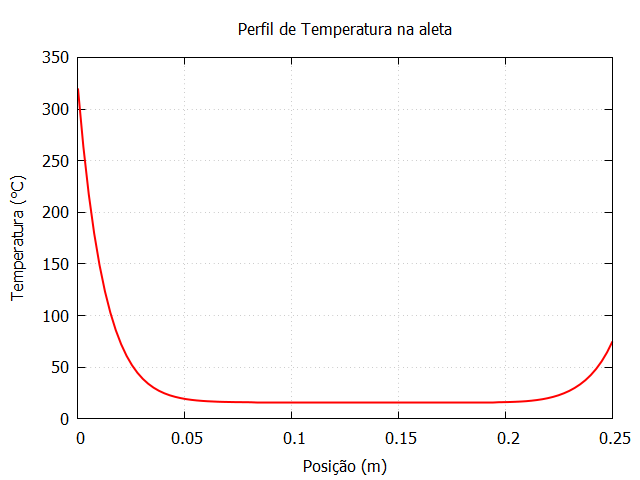
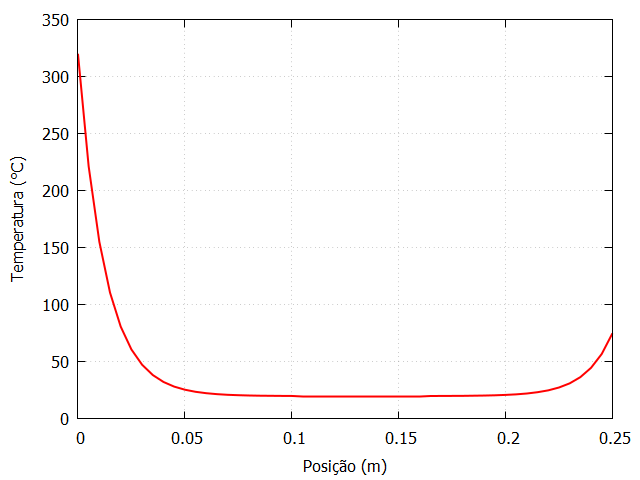
Atualização

diff --git a/Trabalho 1/src/main.cpp b/Trabalho 1/src/main.cpp
@@ -9,16 +9,16 @@
 // Protótipos de funções:
 void fill_coef(std::vector<std::vector<double>>& A, const double gamma);
 void save_data(const std::vector<double>& V, const std::vector<double>& W);
-
+double kelvin_to_celsius(const double TC);
 // Variáveis do problema:
 constexpr double kappa {59.0};                        // coeficiente de condutividade térmica
 constexpr double h {380};                             // coeficiente de troca de calor por convecção
 constexpr double D {4e-03};                           // diâmetro da seção transversal da aleta
-constexpr double T_amb{20.0};                         // temperatura do ambiente
-constexpr double T_0 {320.0};                         // temperatura da aleta em x=0
-constexpr double T_n {75.0};                          // temperatura da aleta em x=L
+constexpr double T_amb{20.0+273.15};                         // temperatura do ambiente
+constexpr double T_0 {320+273.15};                         // temperatura da aleta em x=0
+constexpr double T_n {75+273.15};                          // temperatura da aleta em x=L
 constexpr double L {0.25};                            // comprimento da aleta
-constexpr int N {100};                                // número de nós em x
+constexpr int N {51};                                // número de nós em x
 
 int main(int argc, char* argv[]){
 	constexpr auto dx = L/(N-1);                                             // comprimento do intervalo em x
@@ -27,6 +27,7 @@ int main(int argc, char* argv[]){
 	constexpr auto m2 = (h*P)/(kappa*A);
 	constexpr auto gamma = dx*dx*m2;
 	const auto m = std::sqrt(m2);
+	std::cout << "dx = " << dx << std::endl;
 
 	std::vector<std::vector<double>> G(N, std::vector<double>(N, 0.0));      // matriz NxN de coeficientes
 	std::vector<double> T(N, 0.0);                                           // vetor onde serão armazenadas as temperaturas
@@ -42,6 +43,8 @@ int main(int argc, char* argv[]){
 	B[N-1] = T_n;
 
 	GS_Solver<double>(G, B, T);
+	for (auto& x: T)
+		x = kelvin_to_celsius(x);
 	save_data(T, Pos);
 
 	std::cout << "Execution reached the end" << std::endl;
@@ -69,4 +72,8 @@ void save_data(const std::vector<double>& V, const std::vector<double>& W){
 	for (int i = 0; i < N; i++){
 		saver << std::setw(8) << W[i] << "\t" << V[i] << "\n";
 	}
+}
+
+double kelvin_to_celsius(const double TC){
+	return TC - 273.15;
 }

diff --git a/Trabalho 1/src/solver.py b/Trabalho 1/src/solver.py
@@ -7,9 +7,9 @@ h = 380                             # coeficiente de troca de calor por convecç
 D = 4e-03                           # diâmetro da seção transversal da aleta
 T_amb = 20.0                        # temperatura do ambiente
 T_0 = 320.0                         # temperatura da aleta em x=0
-T_n = 75.0                          # temperatura da aleta em x=L
+T_n = 25.0                          # temperatura da aleta em x=L
 L = 0.25                            # comprimento da aleta
-N = 30                             # número de nós em x
+N = 30                              # número de nós em x
 dx = L/(N-1)                        # comprimento do intervalo em x
 area = math.pi*D*D/4                # área da seção transversal da aleta
 peri = math.pi*D                    # perímetro da aleta
